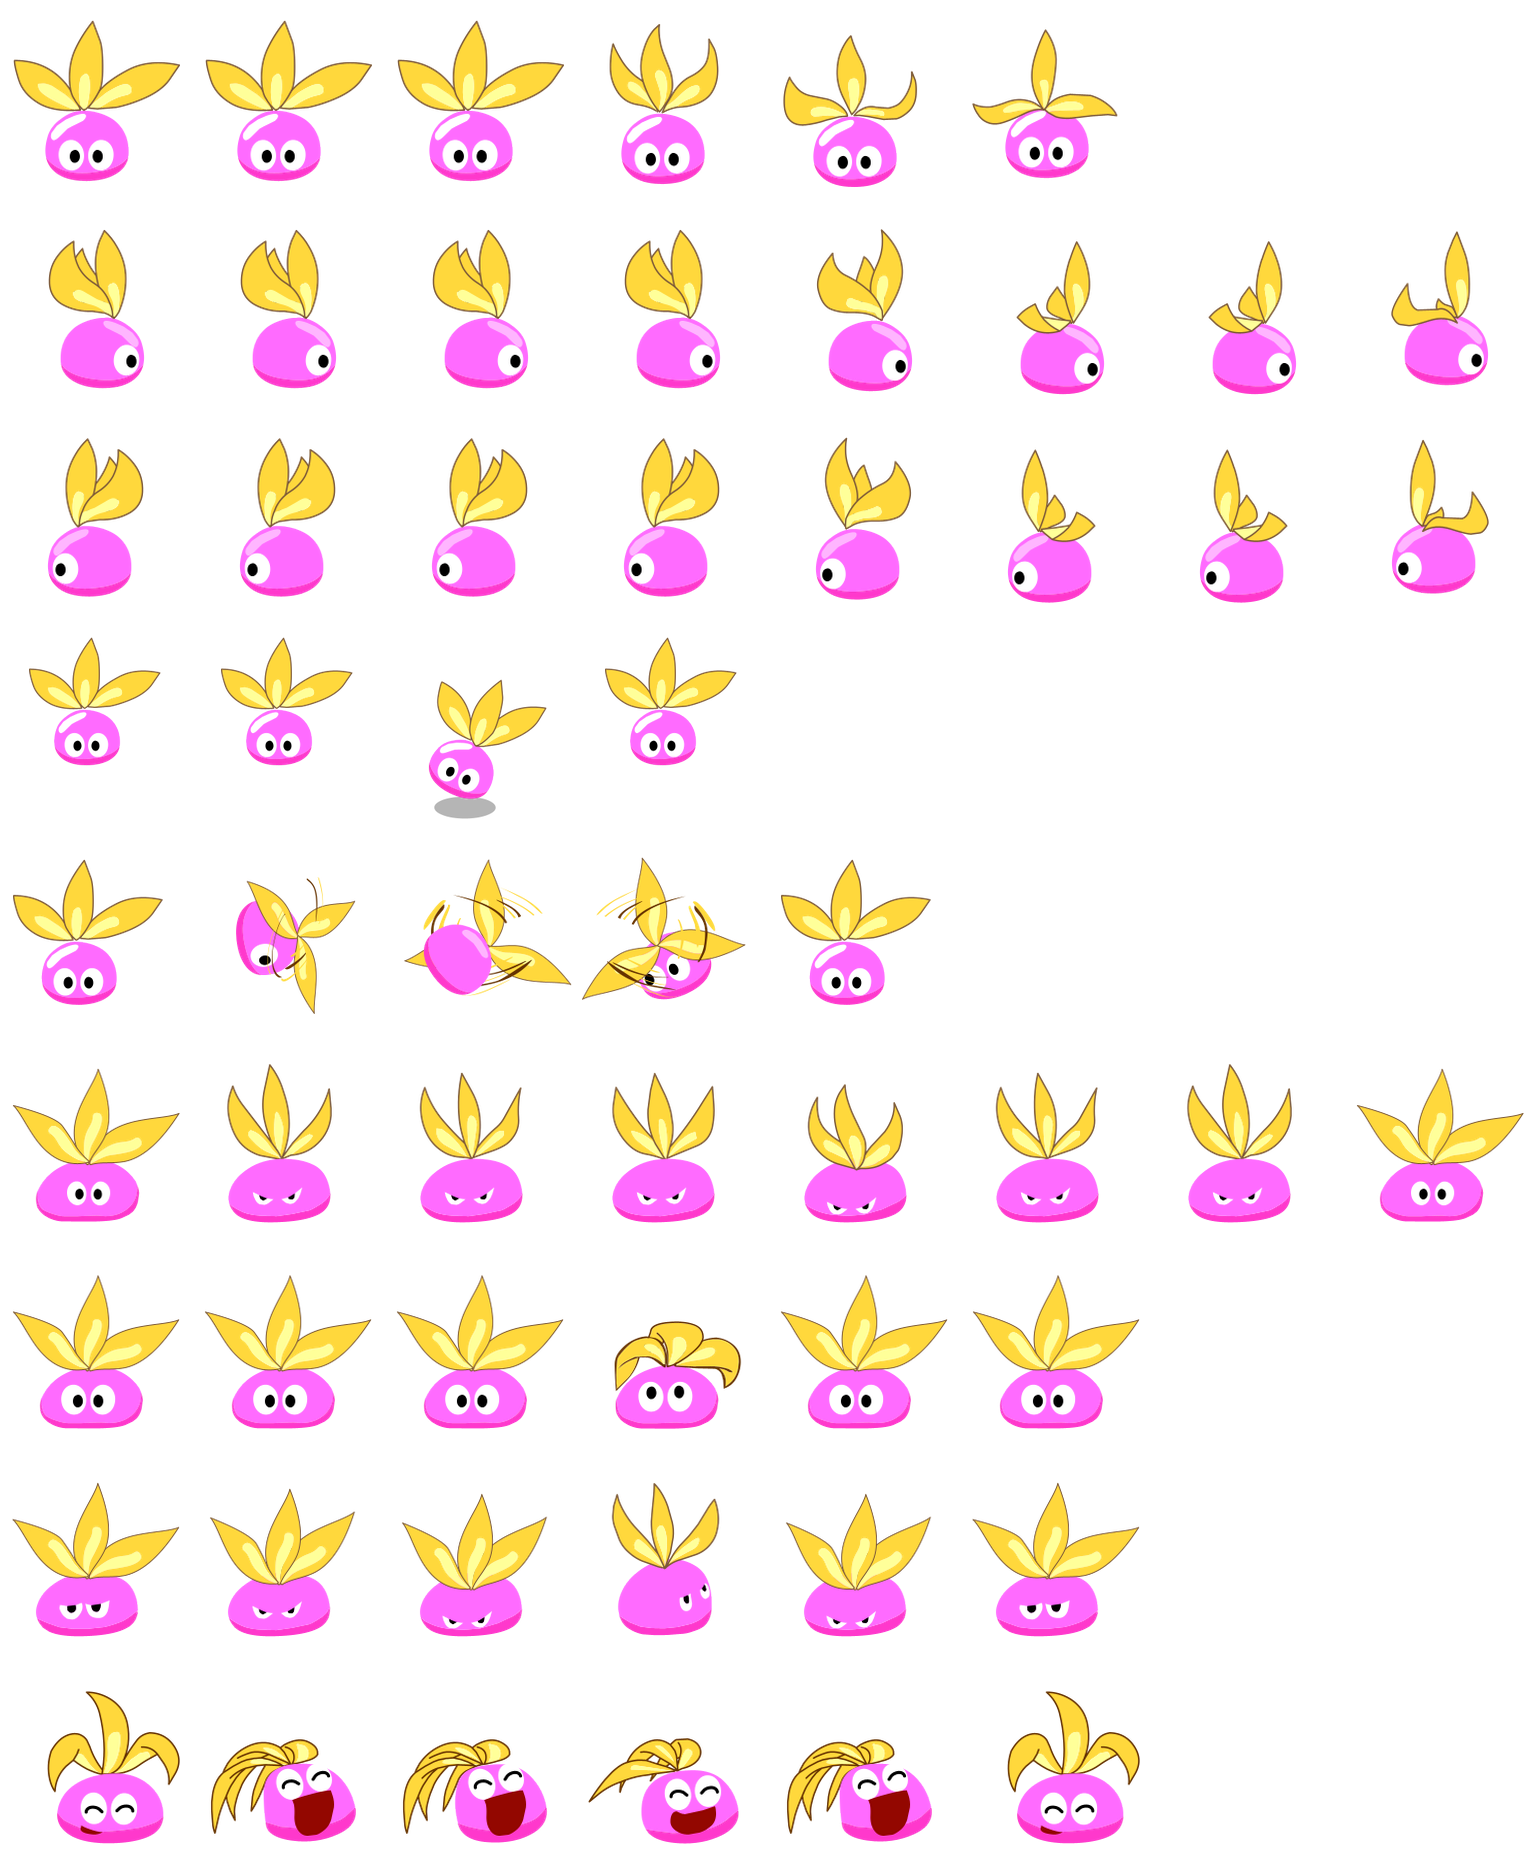
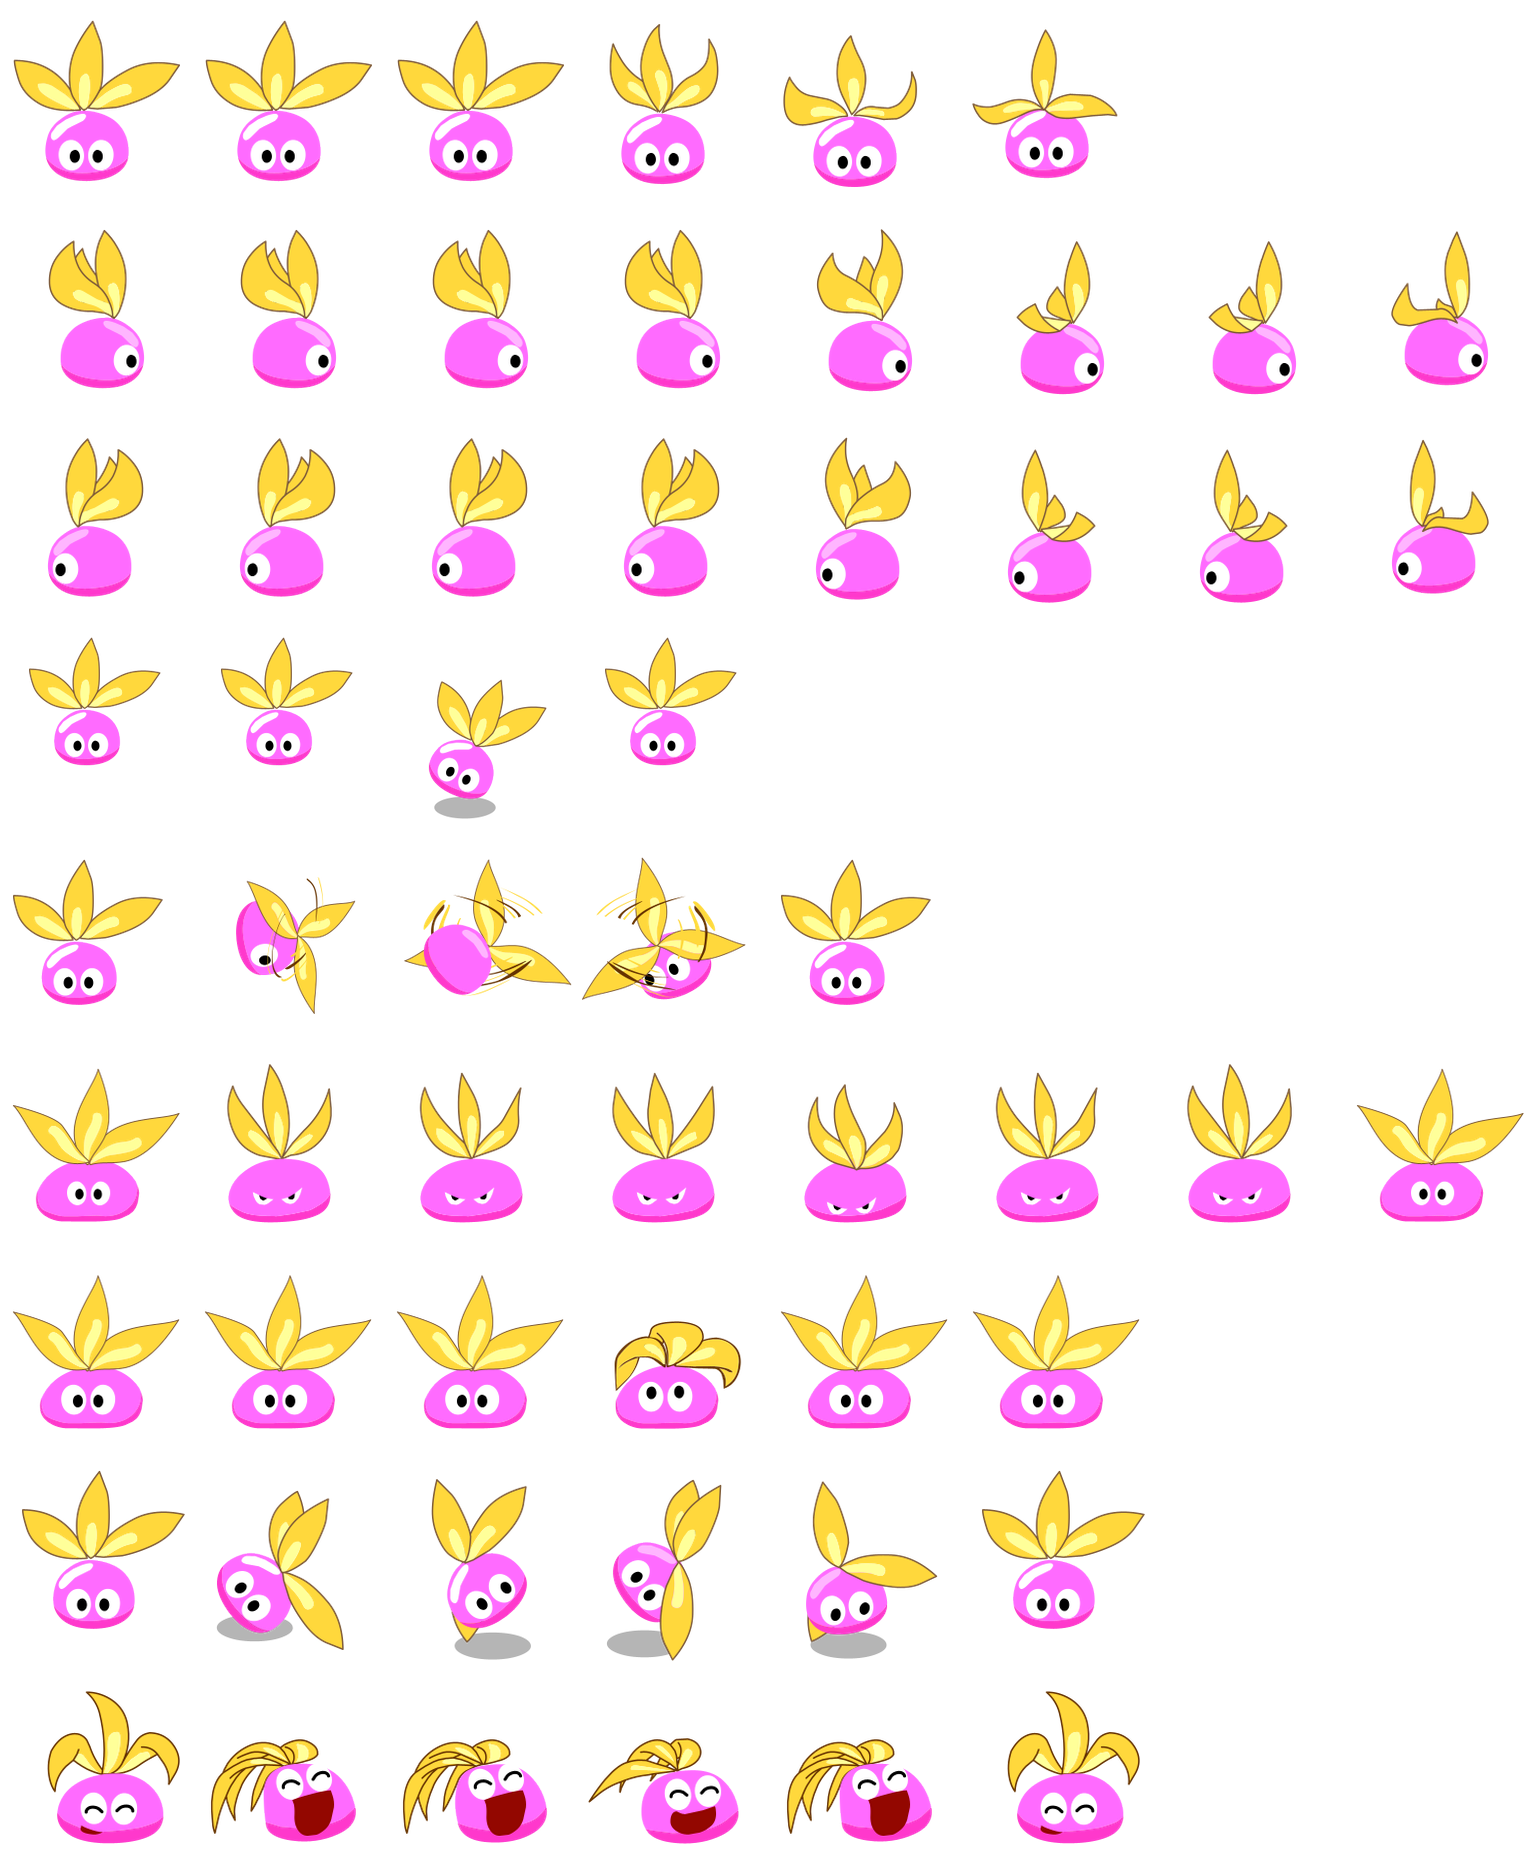
Select original dance sways for Super Ram working

Changed region(s): [[0.0, 0.7746, 0.4688, 0.8985], [0.5, 0.7746, 0.75, 0.8985]]

diff --git a/index.html b/index.html
@@ -25,4 +25,4 @@
     <section class="install" id="ram-install"><details><summary>安装说明</summary><div class="install-content"><ol><li><span>1</span><div><h3>解压宠物包</h3><p>得到一个含有 <code>pet.json</code> 和 <code>spritesheet.png</code> 的拉姆文件夹。</p></div></li><li><span>2</span><div><h3>放进 Codex 的 pets 文件夹</h3><p>macOS / Linux：<code>~/.codex/pets/</code><br>Windows：<code>%USERPROFILE%\.codex\pets\</code><br>若设置过 <code>CODEX_HOME</code>，请使用它下面的 <code>pets</code> 文件夹。</p></div></li><li><span>3</span><div><h3>在设置里选中它</h3><p>打开 Codex 的「设置 → Pets / 宠物」，刷新列表后选择拉姆。输入 <code>/pet</code> 唤出它。</p></div></li></ol><button class="copy-button" id="ram-copy-prompt">复制安装提示词</button><p class="install-note">也可以将下载的精灵图上传到支持「Upload pet」的宠物界面。<a href="https://learn.chatgpt.com/docs/pets" target="_blank" rel="noreferrer">官方说明 ↗</a></p></div></details></section>
 </div><div id="nono-panel" role="tabpanel" aria-labelledby="tab-nono" hidden><section class="workbench" aria-label="超能NoNo宠物预览"><div class="preview-panel" id="nono-preview-panel"><div class="preview-top"><span class="caps">安装效果预览</span><button id="nono-background" class="small-button" aria-label="切换深浅预览背景">◐ <span>深色背景</span></button></div><div class="pet-stage"><span class="pet-label" id="nono-pet-label">超能 NoNo</span><canvas id="nono-pet" width="576" height="624" role="img" aria-label="超能NoNo动画预览"></canvas></div><div class="preview-bottom"><span><i class="live-dot"></i><span id="nono-state-label">待机中</span></span><button id="nono-pause" class="small-button" aria-pressed="false">Ⅱ 暂停动画</button></div></div>
 <div class="controls nono-controls"><div class="section-heading"><h2>形态</h2></div><div class="forms nono-forms" role="group" aria-label="NoNo版本"><button class="form" data-form="nono-normal" aria-pressed="false"><strong>普通 NoNo</strong></button><button class="form active" data-form="nono" aria-pressed="true"><strong>超能 NoNo</strong></button><button class="form" data-form="nono-annual" aria-pressed="false"><strong>至尊 NoNo</strong></button></div><div class="divider"></div><div id="nono-colors-section"><div class="section-heading"><h2>颜色</h2></div><div class="colors" id="nono-colors" role="group" aria-label="NoNo颜色"></div><div class="divider"></div></div><div class="section-heading"><h2>动作</h2><a class="action-library-link" href="ram-library.html">查看原动作 ↗</a></div><div class="states" role="group" aria-label="预览动作"><button data-state="idle" class="selected" aria-pressed="true">待命</button><button data-state="waving" aria-pressed="false">开机</button><button data-state="jumping" aria-pressed="false">惊讶</button><button data-state="running" aria-pressed="false">玩魔方</button><button data-state="waiting" aria-pressed="false">充电</button><button data-state="review" aria-pressed="false">开心</button><button data-state="running-left" aria-pressed="false">向左</button><button data-state="running-right" aria-pressed="false">向右</button><button data-state="failed" aria-pressed="false">悲哀</button></div><p class="hint" style="margin-top:12px">动作播放三遍后回到待机，点击动作可重播。</p><div class="download-area"><div class="install-actions"><button class="command-action" id="nono-copy-command" aria-label="复制安装命令"><span class="command-header"><span class="terminal-title">命令安装 </span><span class="copy-feedback"><span class="copy-status" role="status" aria-live="polite">复制</span><svg class="copy-icon" viewBox="0 0 20 20" width="16" height="16" fill="none" stroke="currentColor" stroke-width="1.4" aria-hidden="true"><rect x="7" y="7" width="10" height="11" rx="2"/><path d="M12 4V3a1 1 0 0 0-1-1H4a2 2 0 0 0-2 2v8a1 1 0 0 0 1 1h1"/></svg></span></span><span class="command-line"><span class="shell-prompt" aria-hidden="true">$</span><code id="nono-install-command">npx --yes github:mli55/taomi-codex-pets --pet nono</code></span></button><button class="download" id="nono-download" disabled><span>↓</span> <span>下载 ZIP</span> </button></div><div class="download-meta"><span></span><button class="text-button" id="nono-download-png" disabled>下载 PNG</button></div><p id="nono-download-status" class="download-status" role="status"></p></div></div></section>    <section class="install" id="nono-install"><details><summary>安装说明</summary><div class="install-content"><ol><li><span>1</span><div><h3>解压宠物包</h3><p>得到一个含有 <code>pet.json</code> 和 <code>spritesheet.png</code> 的NoNo文件夹。</p></div></li><li><span>2</span><div><h3>放进 Codex 的 pets 文件夹</h3><p>macOS / Linux：<code>~/.codex/pets/</code><br>Windows：<code>%USERPROFILE%\.codex\pets\</code><br>若设置过 <code>CODEX_HOME</code>，请使用它下面的 <code>pets</code> 文件夹。</p></div></li><li><span>3</span><div><h3>在设置里选中它</h3><p>打开 Codex 的「设置 → Pets / 宠物」，刷新列表后选择NoNo。输入 <code>/pet</code> 唤出它。</p></div></li></ol><button class="copy-button" id="nono-copy-prompt">复制安装提示词</button><p class="install-note">也可以将下载的精灵图上传到支持「Upload pet」的宠物界面。<a href="https://learn.chatgpt.com/docs/pets" target="_blank" rel="noreferrer">官方说明 ↗</a></p></div></details></section>
-</div></main><footer><p>非官方项目 · 游戏素材版权归原权利方所有</p></footer><script src="pet-playback.js?v=animation-review2" defer></script><script src="ram.js?v=ram-woter1" defer></script><script src="nono.js?v=annual-state-swap1" defer></script><script src="app.js" defer></script></body></html>
+</div></main><footer><p>非官方项目 · 游戏素材版权归原权利方所有</p></footer><script src="pet-playback.js?v=animation-review2" defer></script><script src="ram.js?v=super-dance-work1" defer></script><script src="nono.js?v=annual-state-swap1" defer></script><script src="app.js" defer></script></body></html>

diff --git a/ram.js b/ram.js
@@ -96,7 +96,7 @@ async function loadForm(next){
   try{
     let images=imageCache.get(next);
     if(!images){
-      images=await Promise.all([next+'-neutral.png',next+'-mask.png'].map(async file=>{const image=new Image();image.src='assets/'+file+'?v=ram-woter1';await image.decode();if(image.naturalWidth!==1536||image.naturalHeight!==1872)throw Error('宠物图集尺寸不正确');return image;}));
+      images=await Promise.all([next+'-neutral.png',next+'-mask.png'].map(async file=>{const image=new Image();image.src='assets/'+file+'?v=super-dance-work1';await image.decode();if(image.naturalWidth!==1536||image.naturalHeight!==1872)throw Error('宠物图集尺寸不正确');return image;}));
       imageCache.set(next,images);
     }
     if(request!==generation)return;
